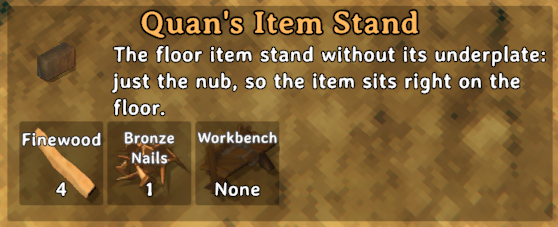
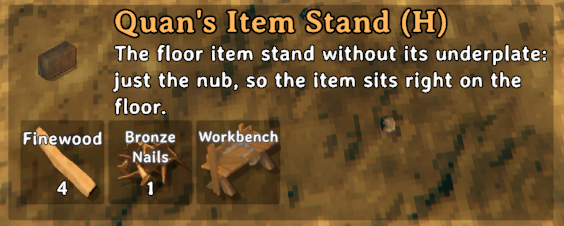
README: refreshed build cards (item stands, triangles) and new ones (invisible stands, bevelled edge)

diff --git a/Package/README.md b/Package/README.md
@@ -196,8 +196,12 @@ walls, and a small triangular floor.
 
 <table>
 <tr>
-<td><img src="https://raw.githubusercontent.com/Quanheim/QuanPieces/main/docs/images/itemstand-wall-card.png" alt="Build-menu card: Quan's Item Stand for the wall, 4 Finewood and 1 Bronze Nails at a Workbench" width="240"></td>
-<td><img src="https://raw.githubusercontent.com/Quanheim/QuanPieces/main/docs/images/itemstand-floor-card.png" alt="Build-menu card: Quan's Item Stand for the floor, 4 Finewood and 1 Bronze Nails at a Workbench" width="240"></td>
+<td><img src="https://raw.githubusercontent.com/Quanheim/QuanPieces/main/docs/images/itemstand-wall-card.png" alt="Build-menu card: Quan's Item Stand (V), 4 Finewood and 1 Bronze Nails at a Workbench" width="240"></td>
+<td><img src="https://raw.githubusercontent.com/Quanheim/QuanPieces/main/docs/images/itemstand-floor-card.png" alt="Build-menu card: Quan's Item Stand (H), 4 Finewood and 1 Bronze Nails at a Workbench" width="240"></td>
+</tr>
+<tr>
+<td><img src="https://raw.githubusercontent.com/Quanheim/QuanPieces/main/docs/images/itemstand-wall-invisible-card.png" alt="Build-menu card: Quan's Invisible Item Stand (V), 4 Finewood and 1 Bronze Nails at a Workbench" width="240"></td>
+<td><img src="https://raw.githubusercontent.com/Quanheim/QuanPieces/main/docs/images/itemstand-floor-invisible-card.png" alt="Build-menu card: Quan's Invisible Item Stand (H), 4 Finewood and 1 Bronze Nails at a Workbench" width="240"></td>
 </tr>
 </table>
 
@@ -232,6 +236,8 @@ the nub completely, so your displays look placed, not mounted.
 ### Bevelled shelf edge
 
 <p><img src="https://raw.githubusercontent.com/Quanheim/QuanPieces/main/docs/images/bevelled-shelf-edge.png" alt="A 1x1 floor shelf on a plank wall, finished at both ends with Quan's Bevelled Shelf Edges: the planks turn the corner at 45° into the wall, their seams meeting the shelf's" width="640"></p>
+
+<p><img src="https://raw.githubusercontent.com/Quanheim/QuanPieces/main/docs/images/bevelled-shelf-edge-card.png" alt="Build-menu card: Quan's Bevelled Shelf Edge, 1 Wood at a Workbench" width="320"></p>
 
 Half a 1x1 wood floor, cut corner to corner, with its planks running along the long edge. Snap it to the end of a
 1x1 shelf and the shelf finishes in a neat bevelled corner into the wall, with the long edge a plank's own rounded

diff --git a/README.md b/README.md
@@ -196,8 +196,12 @@ walls, and a small triangular floor.
 
 <table>
 <tr>
-<td><img src="docs/images/itemstand-wall-card.png" alt="Build-menu card: Quan's Item Stand for the wall, 4 Finewood and 1 Bronze Nails at a Workbench" width="240"></td>
-<td><img src="docs/images/itemstand-floor-card.png" alt="Build-menu card: Quan's Item Stand for the floor, 4 Finewood and 1 Bronze Nails at a Workbench" width="240"></td>
+<td><img src="docs/images/itemstand-wall-card.png" alt="Build-menu card: Quan's Item Stand (V), 4 Finewood and 1 Bronze Nails at a Workbench" width="240"></td>
+<td><img src="docs/images/itemstand-floor-card.png" alt="Build-menu card: Quan's Item Stand (H), 4 Finewood and 1 Bronze Nails at a Workbench" width="240"></td>
+</tr>
+<tr>
+<td><img src="docs/images/itemstand-wall-invisible-card.png" alt="Build-menu card: Quan's Invisible Item Stand (V), 4 Finewood and 1 Bronze Nails at a Workbench" width="240"></td>
+<td><img src="docs/images/itemstand-floor-invisible-card.png" alt="Build-menu card: Quan's Invisible Item Stand (H), 4 Finewood and 1 Bronze Nails at a Workbench" width="240"></td>
 </tr>
 </table>
 
@@ -232,6 +236,8 @@ the nub completely, so your displays look placed, not mounted.
 ### Bevelled shelf edge
 
 <p><img src="docs/images/bevelled-shelf-edge.png" alt="A 1x1 floor shelf on a plank wall, finished at both ends with Quan's Bevelled Shelf Edges: the planks turn the corner at 45° into the wall, their seams meeting the shelf's" width="640"></p>
+
+<p><img src="docs/images/bevelled-shelf-edge-card.png" alt="Build-menu card: Quan's Bevelled Shelf Edge, 1 Wood at a Workbench" width="320"></p>
 
 Half a 1x1 wood floor, cut corner to corner, with its planks running along the long edge. Snap it to the end of a
 1x1 shelf and the shelf finishes in a neat bevelled corner into the wall, with the long edge a plank's own rounded
